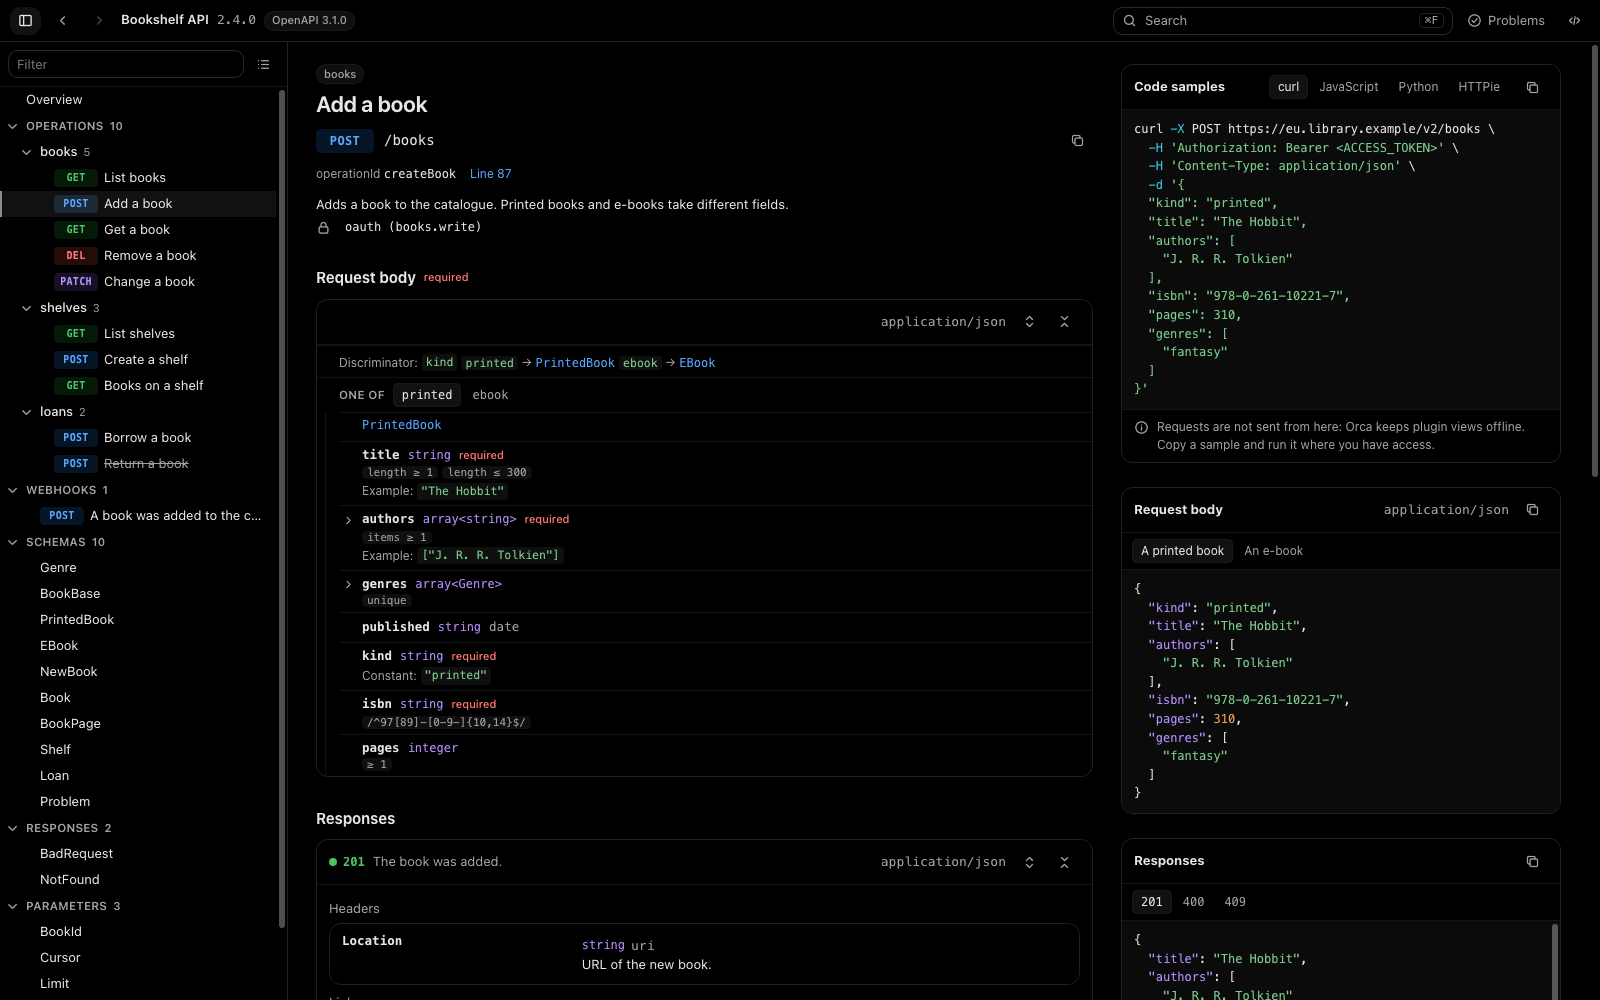
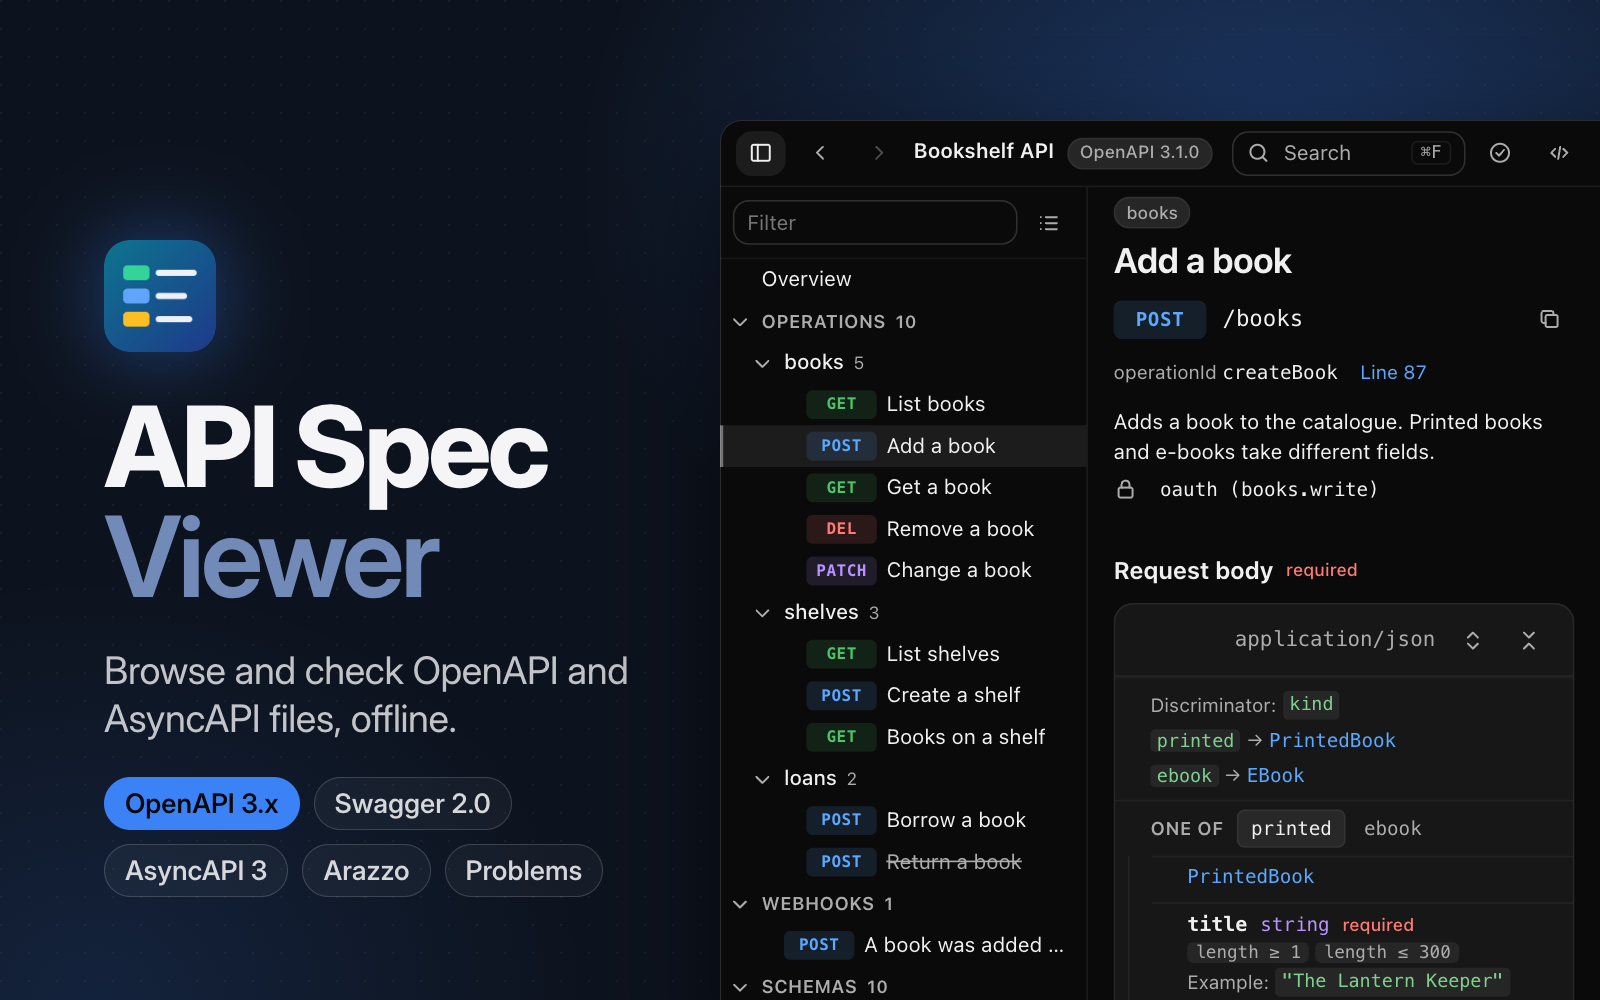
docs: listing images in the house style
The cover and five dark slides, the last light, built by the hub's scripts/listing-image.sh from
tools/listing.json on the demo files from tools/make-listing-samples.mjs: problems, an operation's
code samples, a nested schema, an AsyncAPI operation with its reply, and an Arazzo workflow.
The manifest lists them with their alts; the old screenshots are gone, and the README opens with
the cover like the other plugins' READMEs. Images total 1478 KB.

Claude-Session: https://claude.ai/code/session_01QHcf8PiFKSE1coNmX4f29U

diff --git a/README.md b/README.md
@@ -1,5 +1,7 @@
 # API Spec Viewer for Orca
 
+![API Spec Viewer: the Bookshelf API's operations by tag, beside Add a book and its request body](images/cover.png)
+
 An interactive API reference for [Orca](https://orca.dev)'s editor tabs. It reads OpenAPI 3.0, 3.1
 and 3.2, Swagger 2.0, AsyncAPI 2.x and 3.x, Arazzo 1.0 and Overlay 1.0 documents in YAML, JSON or
 JSON with comments, and shows them as pages you can browse, search and check, without leaving the
